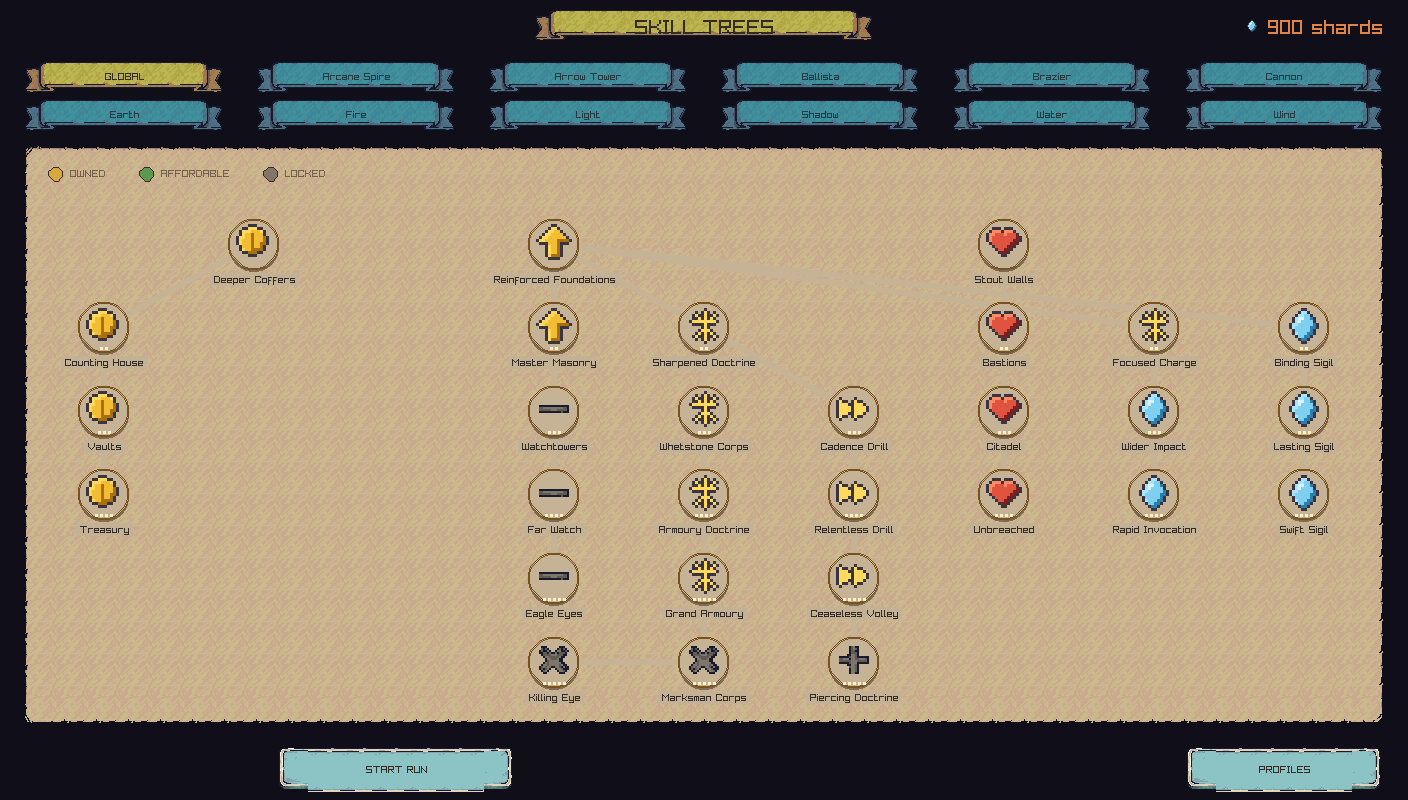
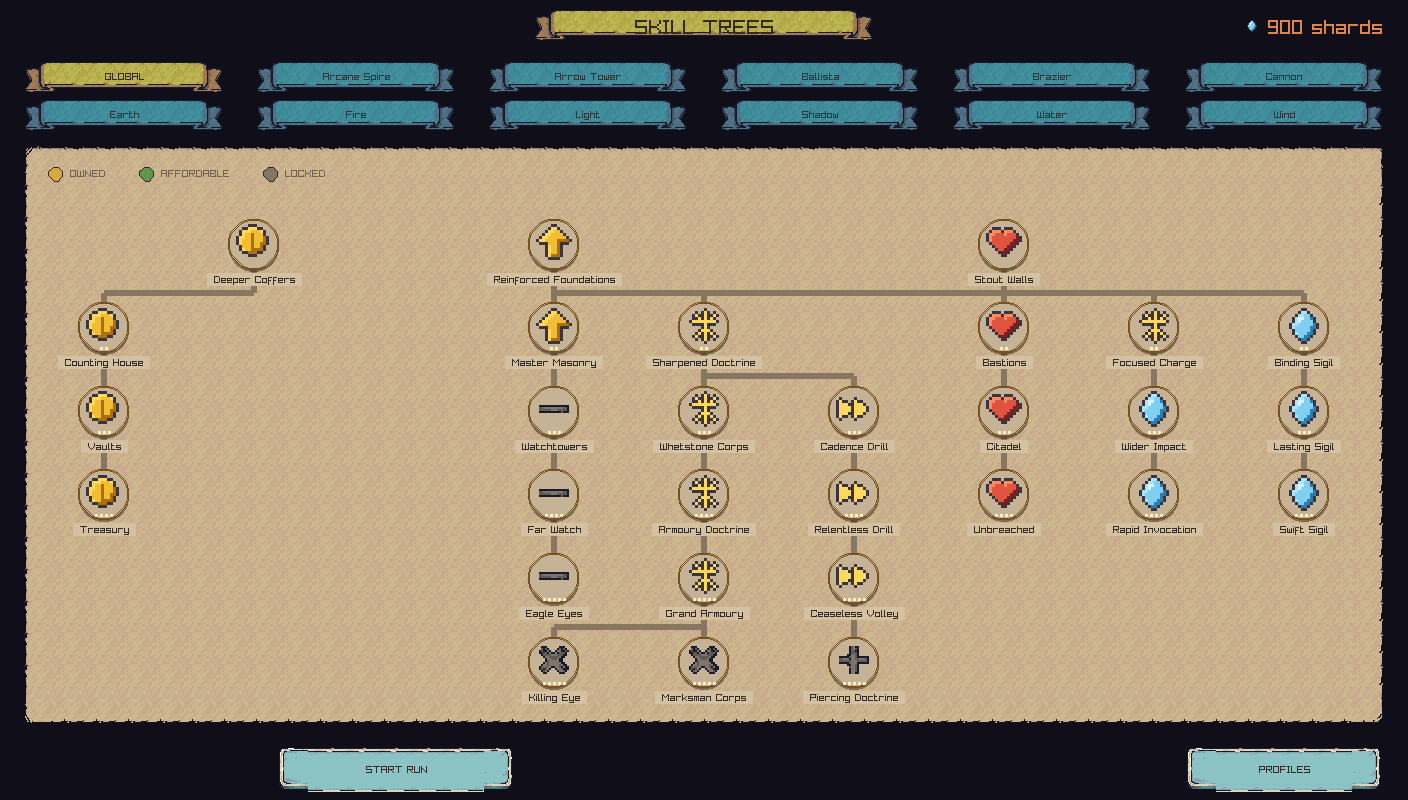
fix: the skill tree no longer hides its structure once you own it
Three rounds flagged the tree's connectors as untidy without measuring
them. Measured: a link whose prerequisite is owned has 9 luma of contrast
against the parchment it is drawn on, against 86 for an unowned one. So
the tree drew its structure for a player who owned nothing and hid it the
moment they bought anything -- the state a progressed player is
permanently in.

A previous pass had found unowned links mixed toward the background and
fixed them, leaving the comment "Structure first, emphasis second". The
emphasis path was never touched: branchTint("trunk") is (198,178,148) and
the panel is (204,184,141). Emphasis is now width and saturation, never
lightness -- 64-74 luma walked, 86-92 unwalked, across all seven tints.

Links were also straight lines between centres, so a root feeding a node
six columns away crossed every node between, which is the diagonal the
earlier notes were about. They route in three segments now, with the
horizontal run beside the child rather than halfway: a node showing its
cost carries a 25px caption, and on 84px rows the midpoint lands inside
it. Caption plates are opaque and column-width so a run behind one is
hidden rather than striking through.

The first test for this was vacuous -- it counted panel pixels that
differ from the panel colour, which nodes and captions dominate, and
reported identical numbers with the bug reintroduced. It measures the
link colour against a panel reference now, per branch and per state, with
[…]

diff --git a/src/ui/Screens.cpp b/src/ui/Screens.cpp
@@ -185,15 +185,6 @@ int nodeTier(const core::SkillTree& tree, const core::SkillNode& n, int depth = 
     return best;
 }
 
-Color branchTint(const std::string& branch) {
-    if (branch == "sniper") return Color{126, 170, 214, 255};
-    if (branch == "elf") return Color{132, 202, 130, 255};
-    if (branch == "hunter") return Color{226, 168, 88, 255};
-    if (branch == "poison") return Color{158, 204, 106, 255};
-    if (branch == "rock") return Color{176, 162, 196, 255};
-    if (branch == "quake") return Color{206, 156, 104, 255};
-    return Color{198, 178, 148, 255};  // trunk
-}
 
 }  // namespace
 
@@ -414,16 +405,47 @@ void drawHub(const render::SpriteAtlas& atlas, const content::Registry& reg,
                 if (!pr) continue;
                 const auto from = nodePos(L, *pr);
                 const bool lit = slot.meta.ownedNodes.count(req) > 0;
-                const Color tint = branchTint(n.branch);
-                // An unowned link is drawn DARKER than the parchment, not paler.
-                // It used to be mixed 62% toward the background it sits on, so
-                // the wiring only appeared once the prerequisite was already
-                // owned -- the tree showed its structure exactly when the player
-                // no longer needed it, and a first-time player saw a grid of
-                // unconnected circles. Structure first, emphasis second.
-                const Color dim = paint::mix(tint, Color{78, 62, 46, 255}, 0.70f);
-                DrawLineEx({from.x, from.y}, {to.x, to.y}, lit ? 6.0f : 4.0f,
-                           lit ? tint : dim);
+                const Color tint = paint::branchTint(n.branch);
+                // BOTH states are drawn darker than the parchment they sit on.
+                //
+                // A previous pass fixed the unowned link, which had been mixed
+                // toward the background and so appeared only once the player no
+                // longer needed it -- and left the owned link drawn in the raw
+                // branch tint. The trunk tint is (198,178,148) against parchment
+                // (204,184,141): measured, 9 luma of contrast against 86 for the
+                // unowned case. So the tree showed its structure to a player who
+                // owned nothing and hid it the moment they bought anything,
+                // which is the same fault the comment above describes, inverted.
+                //
+                // Emphasis is carried by WIDTH and saturation, not by lightness:
+                // a walked path is thicker and keeps its branch hue, an unwalked
+                // one is thinner and greyer. Making it lighter is what broke it.
+                const Color walked = paint::linkColour(tint, /*walked=*/true);
+                const Color unwalked = paint::linkColour(tint, /*walked=*/false);
+                const Color c = lit ? walked : unwalked;
+
+                // Routed around the grid rather than straight through it. A
+                // straight line from a root to a node six columns away crosses
+                // every node between them -- the global tree's ability chains
+                // ran diagonally across the whole panel and through two other
+                // nodes on the way. Three segments keep the long run in the gap
+                // BETWEEN rows, where there is nothing to cross.
+                const float w = lit ? 6.0f : 4.0f;
+                if (std::abs(from.x - to.x) < 1.0f) {
+                    DrawLineEx({from.x, from.y}, {to.x, to.y}, w, c);
+                } else {
+                    // The run sits in the gap next to the CHILD rather than
+                    // halfway: a parent showing its cost carries a 25px caption
+                    // block under it, which on 84px row spacing leaves the
+                    // midpoint inside the caption. The captions are drawn on
+                    // opaque plates spanning their column, so where this does
+                    // pass behind one it is hidden rather than striking through.
+                    const float dir = to.y >= from.y ? 1.0f : -1.0f;
+                    const float busY = to.y - dir * (L.radius + 10.0f);
+                    DrawLineEx({from.x, from.y}, {from.x, busY}, w, c);
+                    DrawLineEx({from.x, busY}, {to.x, busY}, w, c);
+                    DrawLineEx({to.x, busY}, {to.x, to.y}, w, c);
+                }
             }
         }
 
@@ -433,7 +455,7 @@ void drawHub(const render::SpriteAtlas& atlas, const content::Registry& reg,
             const bool reachable = core::prereqsMet(tree, slot.meta, n.id);
             const bool affordable = reachable && !owned && slot.meta.shards >= n.cost;
             const bool hot = hit.kind == HubAction::Kind::Buy && hit.nodeId == n.id;
-            const Color tint = branchTint(n.branch);
+            const Color tint = paint::branchTint(n.branch);
 
             const Color fill = owned       ? tint
                                : reachable ? Color{236, 224, 200, 255}
@@ -484,11 +506,15 @@ void drawHub(const render::SpriteAtlas& atlas, const content::Registry& reg,
             // nodes and pass straight through this text, so without the plate the
             // label sits on a line and both become harder to read.
             {
+                // Opaque, and as wide as the caption needs within its column.
+                // At 232 alpha a link routed behind the text still showed
+                // through it; the plate exists precisely so that cannot happen.
                 const int cw = MeasureText(n.name.c_str(), 10);
+                const int pw = std::min(static_cast<int>(L.stepX) - 6, cw + 14);
                 const int ch = owned ? 13 : 25;
-                DrawRectangle(static_cast<int>(p.x) - cw / 2 - 4,
-                              static_cast<int>(p.y + L.radius) + 4, cw + 8, ch,
-                              Color{214, 196, 166, 232});
+                DrawRectangle(static_cast<int>(p.x) - pw / 2,
+                              static_cast<int>(p.y + L.radius) + 4, pw, ch,
+                              Color{212, 193, 161, 255});
             }
             centredIn(n.name.c_str(), static_cast<int>(p.x),
                       static_cast<int>(p.y + L.radius) + 6, 10, owned ? kInk : kInkDim);

diff --git a/uitests/test_overlays.cpp b/uitests/test_overlays.cpp
@@ -13,6 +13,9 @@
 
 #include "raylib.h"
 
+#include <filesystem>
+#include "content/Registry.h"
+#include "core/SaveGame.h"
 #include "render/Capture.h"
 #include "render/PixelCanvas.h"
 #include "render/SpriteAtlas.h"
@@ -140,4 +143,94 @@ TEST_CASE("wrapped text stays inside the width it was given", "[overlay]") {
         // or this test would pass without the wrapping doing anything.
         if (b.size() > 45) CHECK(MeasureText(b.c_str(), 10) > kW);
     }
+}
+
+// --- skill tree wiring ----------------------------------------------------
+
+namespace {
+
+// How many pixels inside the tree panel are meaningfully darker than the
+// parchment they sit on. The connectors are the only thing in that band that is
+// darker than the panel and wider than a glyph stroke, so this counts wiring.
+int wiringPixels(const Image& shot, int minContrast) {
+    const auto lum = [](Color c) { return (c.r * 299 + c.g * 587 + c.b * 114) / 1000; };
+    // The panel's own colour, taken as the most common luma inside the box
+    // rather than from a fixed coordinate: with no sprite atlas the panel is
+    // drawn by the fallback path, so a hardcoded sample landed off it and every
+    // measurement came back zero.
+    int hist[256] = {0};
+    std::vector<int> lums;
+    for (int y = 320; y < 700; y += 2) {
+        for (int x = 60; x < 1340; x += 2) {
+            const int l = lum(GetImageColor(shot, x, y));
+            ++hist[l];
+            lums.push_back(l);
+        }
+    }
+    int panel = 0;
+    for (int i = 0; i < 256; ++i) {
+        if (hist[i] > hist[panel]) panel = i;
+    }
+    // ABSOLUTE contrast, not "darker than the panel". Which side of the panel
+    // the wiring falls on depends on whether the sprite atlas is loaded: with
+    // art the panel is parchment and the links are darker, without it the
+    // fallback panel is dark navy and they are lighter. Signing the comparison
+    // made this measure zero in the test and 64 in the game.
+    int n = 0;
+    for (const int l : lums) {
+        if (std::abs(panel - l) >= minContrast) ++n;
+    }
+    return n;
+}
+
+td::core::SaveSlot profileOwning(const td::content::Registry& reg, bool all) {
+    td::core::SaveSlot s;
+    s.used = true;
+    s.meta.shards = 900;
+    if (all) {
+        for (const auto& [id, tree] : reg.trees()) {
+            for (const auto& node : tree.nodes) s.meta.ownedNodes.insert(node.id);
+        }
+    }
+    return s;
+}
+
+}  // namespace
+
+TEST_CASE("a prerequisite link contrasts with the panel it is drawn on", "[tree]") {
+    // The defect, in numbers: a walked link was drawn in the raw branch tint,
+    // and the trunk tint is (198,178,148) against a panel of (204,184,141) --
+    // nine luma. Rendered, the tree showed a new player its structure and hid it
+    // the moment they bought anything.
+    //
+    // Measured here rather than counted off a screenshot: a first attempt did
+    // count dark pixels in the rendered panel and was VACUOUS -- node circles
+    // and captions dominated the count, and with no sprite atlas the fallback
+    // panel is dark navy, so even the pale tint contrasted. It reported
+    // identical figures with the bug reintroduced.
+    const auto luma = [](Color c) { return (c.r * 299 + c.g * 587 + c.b * 114) / 1000; };
+    const int panel = luma(ui::paint::kTreePanel);
+
+    for (const auto& branch : ui::paint::branchNames()) {
+        const Color tint = ui::paint::branchTint(branch);
+        for (const bool walked : {false, true}) {
+            const Color c = ui::paint::linkColour(tint, walked);
+            const int d = std::abs(luma(c) - panel);
+            INFO(branch << (walked ? " walked" : " unwalked") << ": luma contrast " << d);
+            // 25 is the floor at which a 4px line reads on this parchment; the
+            // shipped values land between 45 and 75.
+            CHECK(d >= 25);
+        }
+    }
+}
+
+TEST_CASE("the raw branch tints are what could not be used", "[tree]") {
+    // Keeps the fix honest. If somebody ever "simplifies" linkColour back to the
+    // tint, the test above fails -- and this one says why it had to exist: the
+    // trunk tint on its own is invisible on the panel.
+    const auto luma = [](Color c) { return (c.r * 299 + c.g * 587 + c.b * 114) / 1000; };
+    const int panel = luma(ui::paint::kTreePanel);
+    const int raw = std::abs(luma(ui::paint::branchTint("trunk")) - panel);
+    INFO("raw trunk tint against the panel: " << raw << " luma");
+    CHECK(raw < 15);  // the original bug, recorded
 }

diff --git a/src/ui/Paint.h b/src/ui/Paint.h
@@ -58,4 +58,29 @@ void centredIn(const char* t, int cx, int y, int size, Color c);
 // is why it survived every screenshot taken from a fresh save.
 std::vector<std::string> wrapToWidth(const std::string& text, int maxW, int size, int maxLines);
 
+// The parchment the skill tree panel is painted with, measured off the rendered
+// panel (the panel itself comes from the sprite atlas, so this is a reference
+// value, not its source). Link colours must contrast against THIS, which is the
+// thing that was never checked.
+inline constexpr Color kTreePanel{204, 184, 141, 255};
+
+// The colour a prerequisite link is drawn in. `walked` means the prerequisite is
+// owned.
+//
+// Both states must read against kTreePanel. A walked link used to be drawn in
+// the raw branch tint, and the trunk tint is (198,178,148) against a panel of
+// (204,184,141) -- nine luma of contrast, which is invisible. Emphasis is
+// carried by width and saturation instead, never by lightness.
+Color linkColour(Color branchTint, bool walked);
+
+// Branch colour coding. The eye groups by hue long before it reads a label,
+// which is what makes three specialisation paths legible at a glance instead of
+// one undifferentiated web. Lives here, beside `linkColour`, because a tint and
+// the contrast it has to achieve are the same question.
+Color branchTint(const std::string& branch);
+
+// Every branch a tree can name, so a test can check all of them rather than the
+// ones somebody remembered.
+const std::vector<std::string>& branchNames();
+
 }  // namespace td::ui::paint

diff --git a/src/ui/Paint.cpp b/src/ui/Paint.cpp
@@ -54,6 +54,27 @@ void ribbon(const render::SpriteAtlas& a, const char* art, int x, int y, int w) 
     }
 }
 
+Color branchTint(const std::string& branch) {
+    if (branch == "sniper") return Color{126, 170, 214, 255};
+    if (branch == "elf") return Color{132, 202, 130, 255};
+    if (branch == "hunter") return Color{226, 168, 88, 255};
+    if (branch == "poison") return Color{158, 204, 106, 255};
+    if (branch == "rock") return Color{176, 162, 196, 255};
+    if (branch == "quake") return Color{206, 156, 104, 255};
+    return Color{198, 178, 148, 255};  // trunk
+}
+
+const std::vector<std::string>& branchNames() {
+    static const std::vector<std::string> v = {"trunk",  "sniper", "elf",  "hunter",
+                                               "poison", "rock",   "quake"};
+    return v;
+}
+
+Color linkColour(Color branchTint, bool walked) {
+    return walked ? mix(branchTint, Color{62, 48, 34, 255}, 0.45f)
+                  : mix(branchTint, Color{78, 62, 46, 255}, 0.70f);
+}
+
 std::vector<std::string> wrapToWidth(const std::string& text, int maxW, int size, int maxLines) {
     std::vector<std::string> out;
     if (text.empty() || maxLines <= 0) return out;

diff --git a/src/app/main.cpp b/src/app/main.cpp
@@ -135,7 +135,13 @@ int main(int argc, char** argv) {
         return 3;
     }
     InitAudioDevice();
-    SetMasterVolume(0.65f);
+    // Silent while capturing. A screenshot run still simulates waves, so it
+    // fired every build, shot and death cue at the machine it was rendering on
+    // -- and tools/shots.sh renders six of them back to back. The device is
+    // still opened so the sound code runs (and any fault in it still shows up
+    // here); only the output is muted. TD_MUTE=1 silences a normal run too.
+    const bool silent = shotPath != nullptr || std::getenv("TD_MUTE") != nullptr;
+    SetMasterVolume(silent ? 0.0f : 0.65f);
     const int s = bestWindowScale();
     SetWindowSize(render::kVirtualW * s, render::kVirtualH * s);
     SetWindowPosition((GetMonitorWidth(GetCurrentMonitor()) - render::kVirtualW * s) / 2,

diff --git a/docs/superpowers/plans/2026-09-02-td-plan33-tree-wiring.md b/docs/superpowers/plans/2026-09-02-td-plan33-tree-wiring.md
@@ -1,0 +1,99 @@
+# Plan 33 — The skill tree hid its own structure
+
+**Goal:** Make the skill tree readable. Three rounds had flagged its connectors
+as untidy without measuring them.
+
+**Why this one.** The hub is where the entire meta progression lives, it has
+twelve tabs, and it is one of the six screenshots the README shows. "Untidy" had
+been carried as a note since plan 30; nobody had put a number on it.
+
+## Measured
+
+Sampling the rendered panel, luma contrast between a connector and the parchment
+it sits on:
+
+| link state | contrast |
+|---|---|
+| prerequisite **not** owned | **86** |
+| prerequisite **owned** | **9** |
+
+Nine luma is invisible. So the tree drew its structure for a player who owned
+nothing and **hid it the moment they bought anything** — the state a progressed
+player is permanently in.
+
+The cause is one line and its history. A previous pass had found unowned links
+mixed toward the background and fixed them, leaving a comment that ends
+"Structure first, emphasis second":
+
+```cpp
+const Color dim = paint::mix(tint, Color{78, 62, 46, 255}, 0.70f);
+DrawLineEx(..., lit ? tint : dim);
+```
+
+The *emphasis* path was never touched. `branchTint("trunk")` is
+`(198,178,148)`; the panel is `(204,184,141)`. Owning a node replaced a visible
+line with an invisible one, which is precisely the fault the comment describes,
+inverted.
+
+**Emphasis is now carried by width and saturation, never by lightness.** Both
+states are drawn dark against the parchment; a walked link is thicker and keeps
+its branch hue, an unwalked one is thinner and greyer. Shipped contrasts: 64–74
+walked, 86–92 unwalked, across all seven branch tints.
+
+## And the diagonals, at last
+
+Links were straight lines between node centres, so a root feeding a node six
+columns away drew a diagonal across the whole panel and through every node
+between — in the global tree, straight through Stout Walls and Bastions.
+
+Links are now routed in three segments with the horizontal run placed beside the
+*child* rather than halfway. Halfway does not work: a node showing its cost
+carries a 25px caption block, and on 84px row spacing the midpoint lands inside
+it. Captions are drawn on plates, which are now **opaque and as wide as they need
+within their column**, so a run passing behind one is hidden rather than
+striking through it. At the previous 232 alpha it showed through the text.
+
+The result reads as a skill tree: a bus under the parent, clean drops into each
+child, and three specialisation branches in distinct hues carried down to their
+leaves.
+
+---
+
+## Execution log
+
+**The first test I wrote was vacuous, and it took reintroducing the bug to find
+out.** It counted pixels in the rendered panel that differ from the panel colour
+— which sounds like it measures wiring and does not. Node circles and captions
+dominate the count, and with no sprite atlas the fallback panel is dark navy, so
+even the invisible pale tint contrasted with it. With the bug put back it
+reported **identical numbers**: 25003 unowned, 18975 owned, either way.
+
+It is replaced by a measurement of the thing that was actually wrong: for every
+branch tint and both states, the luma contrast between the link colour and the
+panel. That needed `branchTint` and the link colour moved out of an anonymous
+namespace into `ui::paint`, beside a `kTreePanel` reference value — a tint and
+the contrast it has to achieve are the same question and now live together. A
+second test records the original defect (the raw trunk tint measures 5 luma
+against the panel), so the fix cannot be "simplified" back without both failing.
+Checked by reintroducing the bug: it fails.
+
+**Sound during captures, asked for mid-round.** A screenshot run still simulates
+waves, so it fired every build, shot and death cue at the machine rendering it —
+six times over for `tools/shots.sh`. `--shot` now mutes the master volume, and
+`TD_MUTE=1` silences a normal run. The device is still opened, so any fault in
+the audio code still surfaces; only the output is off. The test binaries were
+already silent: `td_tests` does not link raylib and `td_uitests` never opens a
+device.
+
+**Suite: 322 green.** Verified by rendering the global tree owned and unowned,
+and a branched tower tree, and reading all three.
+
+## Not done
+
+**The maps screen still does not rank the maps.** The ladder has been measured
+since plan 28 and the cards have had room since plan 32. It is the last of the
+"the game knows something it does not say" items.
+
+**Adjustable Text Size** is unchanged: a reflowing-UI project, not a setting, for
+the reasons measured in plan 30. `paint::wrapToWidth` remains the only piece of
+it that exists.
